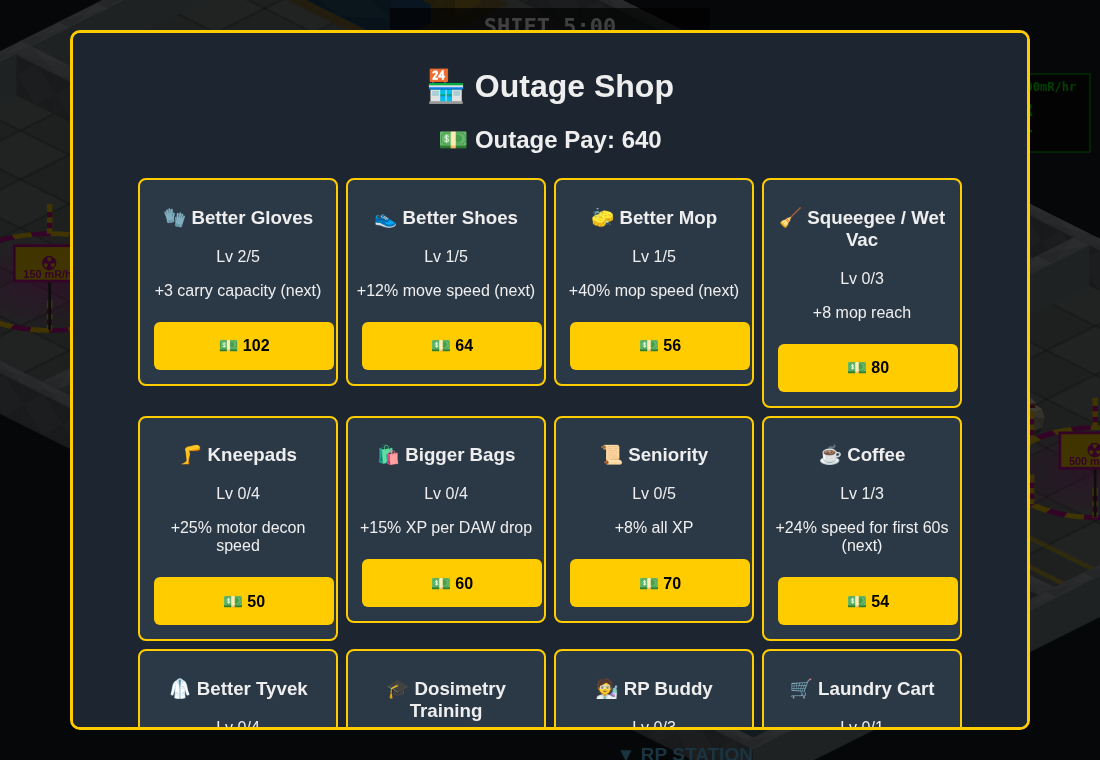
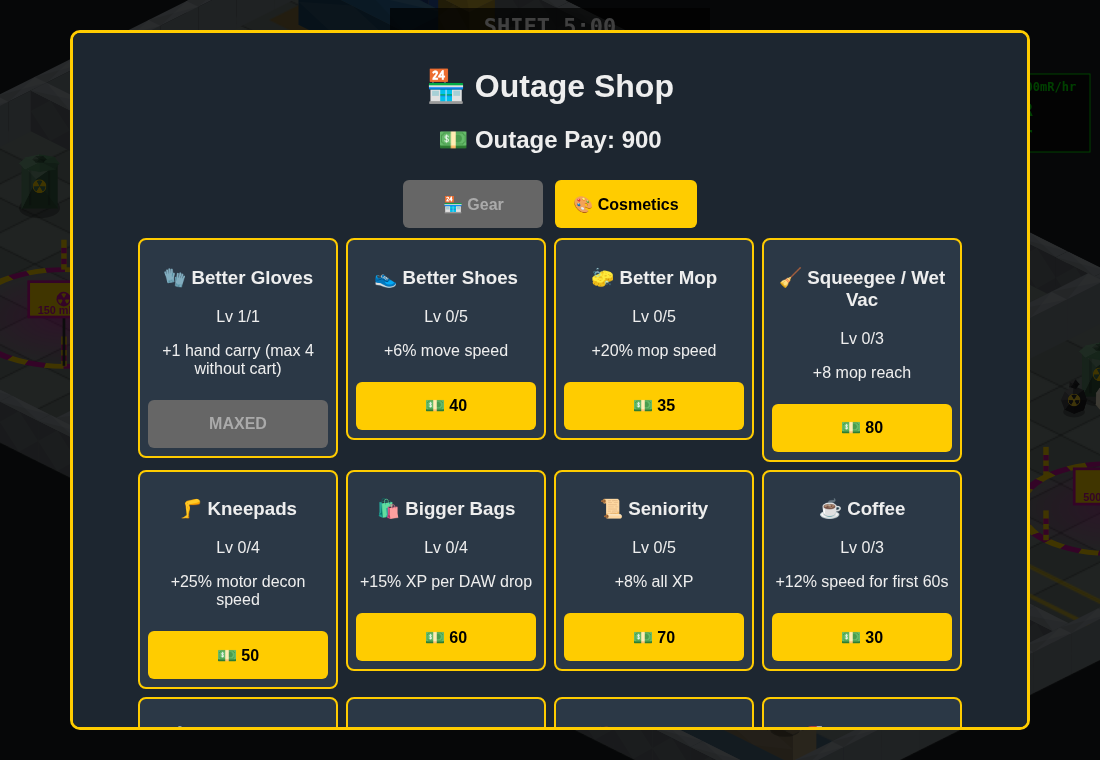
Shift modes, PCM frisk, hot particle, tent jobs + doffing, daily challenges, buddy, cosmetics, ranks

diff --git a/index.html b/index.html
@@ -20,18 +20,19 @@ const SHOP=[
 {id:'training',n:'🎓 Dosimetry Training',d:l=>'ED set points '+(10+l*5)+' mR / '+(100+l*50)+' mR/hr',max:3,c:120,g:1.8},
 {id:'rpbuddy',n:'🧑🔬 RP Buddy',d:l=>'-'+(l*25)+'% XP lost on ED reset',max:3,c:50,g:1.7},
 {id:'magnet',n:'🧲 XP Magnet',d:l=>'+'+(l*12)+' bubble pickup radius',max:4,c:45,g:1.6},
+{id:'buddy',n:'🧑🔧 Apprentice Buddy',d:l=>l>=2?'Collects bubbles AND hauls bags to DAW':'Follows you and collects XP bubbles'+(l?' (next: hauls bags)':''),max:2,c:300,g:2},
 {id:'cart',n:'🛒 Laundry Cart',d:l=>l?'Owned: press C / tap 🛒 to grab or park':'Start every shift with a cart (8+ bags)',max:1,c:750,g:1}];
 let META;try{META=JSON.parse(localStorage.getItem('deconMeta'))}catch(e){}META=META||{pay:0,lv:{},shifts:0};
 const saveMeta=()=>{try{localStorage.setItem('deconMeta',JSON.stringify(META))}catch(e){}};
 const ML=id=>META.lv[id]||0,cost=it=>Math.round(it.c*Math.pow(it.g,ML(it.id)));
 function applyMeta(){const u=S.up;u.cap=Math.min(4,u.cap+ML('gloves'));u.spd*=1+.06*ML('shoes');u.mop*=1+.2*ML('mop');u.decon*=1+.25*ML('kneepads');
-S.reach=4+8*ML('squeegee');S.doseMul=1-.12*ML('tyvek');S.sp1=10+5*ML('training');S.sp2=100+50*ML('training');S.xpMul=1+.08*ML('seniority');S.bagMul=1+.15*ML('bigbags');S.coffee=.12*ML('coffee');S.rpMul=1-.25*ML('rpbuddy');S.hasCart=ML('cart')>0;S.magnet+=12*ML('magnet')}
+S.reach=4+8*ML('squeegee');S.doseMul=1-.12*ML('tyvek');S.sp1=10+5*ML('training');S.sp2=100+50*ML('training');S.xpMul=1+.08*ML('seniority');S.bagMul=1+.15*ML('bigbags');S.coffee=.12*ML('coffee');S.rpMul=1-.25*ML('rpbuddy');S.hasCart=ML('cart')>0;S.buddy=ML('buddy')?{x:S.p.x-30,y:S.p.y-30,vx:0,vy:0,carry:null}:null;S.buddyCD=0;applyCos();S.magnet+=12*ML('magnet')}
 function toggleCart(){if(!S.hasCart||S.paused)return;const u=S.up;if(u.cart&&S.p.carry.length>u.cap){float(S.p.x,S.p.y-30,'Unload first!','#f88');return}u.cart=!u.cart;float(S.p.x,S.p.y-30,u.cart?'🛒 Cart!':'Cart parked',u.cart?'#fc0':'#ccc')}
 const capOf=()=>S.up.cart?S.up.cartCap:S.up.cap;
 addEventListener('keydown',e=>{if(e.key.toLowerCase()==='c')toggleCart()});
-function shop(from){S.paused=true;const it=SHOP.map(i=>{const l=ML(i.id),mx=l>=i.max,c=cost(i),ok=!mx&&META.pay>=c;
+function shop(from,tab){S.paused=true;if(tab==='cos'){OV.innerHTML=`<div class="box wide"><h1>🎨 Cosmetics</h1><h2>💵 Outage Pay: ${META.pay}</h2><button onclick="shop('${from}')">🏪 Gear</button><button disabled>🎨 Cosmetics</button><div>${cosHTML(from)}</div><button style="font-size:20px" onclick="${from==='end'?'shiftSelect()':'title()'}">${from==='end'?'▶ Next Shift':'◀ Back'}</button></div>`;OV.style.display='flex';return}const it=SHOP.map(i=>{const l=ML(i.id),mx=l>=i.max,c=cost(i),ok=!mx&&META.pay>=c;
 return`<div class="card shop"><h3>${i.n}</h3><div>Lv ${l}/${i.max}</div><p>${i.d(Math.max(l,mx?l:l+1))}${mx?'':l?' (next)':''}</p><button ${ok?'':'disabled'} onclick="buy('${i.id}','${from}')">${mx?'MAXED':'💵 '+c}</button></div>`}).join('');
-OV.innerHTML=`<div class="box wide"><h1>🏪 Outage Shop</h1><h2>💵 Outage Pay: ${META.pay}</h2><div>${it}</div><button style="font-size:20px" onclick="${from==='end'?'start()':'title()'}">${from==='end'?'▶ Next Shift':'◀ Back'}</button>
+OV.innerHTML=`<div class="box wide"><h1>🏪 Outage Shop</h1><h2>💵 Outage Pay: ${META.pay}</h2><button disabled>🏪 Gear</button><button onclick="shop('${from}','cos')">🎨 Cosmetics</button><div>${it}</div><button style="font-size:20px" onclick="${from==='end'?'shiftSelect()':'title()'}">${from==='end'?'▶ Next Shift':'◀ Back'}</button>
 <details style="margin-top:14px;opacity:.6"><summary>Settings</summary><button style="background:#a33;color:#fff" onclick="if(confirm('Reset ALL progress?')){META={pay:0,lv:{},shifts:0};saveMeta();shop('${from}')}">Reset progress</button></details></div>`;OV.style.display='flex'}
 function buy(id,from){const i=SHOP.find(s=>s.id===id),c=cost(i);if(META.pay<c||ML(id)>=i.max)return;META.pay-=c;META.lv[id]=ML(id)+1;saveMeta();shop(from)}
 const C=document.getElementById('c');let X=C.getContext('2d');const OV=document.getElementById('ov');
@@ -50,7 +51,7 @@ document.addEventListener('touchmove',e=>{if(!e.target.closest||!e.target.closes
 document.addEventListener('gesturestart',e=>e.preventDefault());
 onkeydown=e=>{keys[e.key.toLowerCase()]=1;if(e.key.startsWith('Arrow'))e.preventDefault()};onkeyup=e=>keys[e.key.toLowerCase()]=0;
 function reset(){S={t:0,p:{x:900,y:600,r:13,carry:[]},xp:0,lvl:1,next:5,items:[],spills:[],motor:null,workers:[],
-dose:0,rate:0,alarm:false,bub:[],combo:0,comboT:0,bestCombo:0,lean:0,flyOut:[],pend:0,pendT:0,magnet:34,knockCD:0,stats:{bags:0,spills:0,motors:0,alarms:0},cleans:0,cleanCD:0,banner:0,
+dose:0,rate:0,alarm:false,bub:[],combo:0,comboT:0,bestCombo:0,lean:0,flyOut:[],pend:0,pendT:0,magnet:34,knockCD:0,contam:0,tent:null,tentAt:45,hp:null,hpAt:70+Math.random()*60,tentsOk:0,banner2:0,pcmAlarm:false,stats:{bags:0,spills:0,motors:0,alarms:0},cleans:0,cleanCD:0,banner:0,
 up:{spd:1,cap:3,cartCap:8,carrySpd:0.7,mop:1,decon:1,push:0,cart:false},
 spawnT:0,spillT:3,motorT:40,paused:true,floats:[],over:false};
 for(let i=0;i<5;i++)S.workers.push({x:400+Math.random()*300,y:300+Math.random()*200,vx:0,vy:0,t:0});
@@ -58,7 +59,7 @@ for(let i=0;i<4;i++)spawnItem();applyMeta()}
 function solid(x,y,r){if(x<r||y<r||x>W-r||y>H-r)return true;for(const w of walls)if(x+r>w[0]&&x-r<w[0]+w[2]&&y+r>w[1]&&y-r<w[1]+w[3])return true;return false}
 const CANS=[{x:250,y:210,n:'Aux Bldg'},{x:95,y:440,n:'Pipe Chase'},{x:650,y:320,n:'Containment'},{x:830,y:90,n:'Turbine'},{x:810,y:470,n:'RCA Hall'}],CAN_CAP=8;
 function nearCan(x,y,d=55){return CANS.some(c=>Math.hypot(c.x-x,c.y-y)<d)}
-function freeSpot(r=14){let x,y;do{x=30+Math.random()*(W-60);y=30+Math.random()*(H-60)}while(solid(x,y,r)||inR({x,y},DAW,30)||inR({x,y},RP,30)||nearCan(x,y));return{x,y}}
+function freeSpot(r=14){let x,y;do{x=30+Math.random()*(W-60);y=30+Math.random()*(H-60)}while(solid(x,y,r)||inR({x,y},DAW,30)||inR({x,y},RP,30)||inR({x,y},TENT,20)||nearCan(x,y));return{x,y}}
 function inR(p,a,m=0){return p.x>a.x-m&&p.x<a.x+a.w+m&&p.y>a.y-m&&p.y<a.y+a.h+m}
 function spawnItem(){const open=CANS.filter(c=>S.items.filter(i=>i.can===c).length<CAN_CAP);if(!open.length)return;const c=open[Math.random()*open.length|0];
 const used=new Set(S.items.filter(i=>i.can===c).map(i=>i.slot));let k=0;while(used.has(k))k++;const a=(k%6)/6*6.283+.4,r=k<6?30:24,j=()=>(Math.random()-.5)*4;
@@ -66,6 +67,62 @@ S.nSp=(S.nSp||0)+1;S.dirty=true;S.items.push({x:c.x+Math.cos(a)*r+j(),y:c.y+Math
 function spawnSpill(){S.dirty=true;S.nSl=(S.nSl||0)+1;const s=freeSpot();S.spills.push({...s,r:16+Math.random()*10,prog:0,age:0})}
 function float(x,y,txt,col='#fc0'){S.floats.push({x,y,txt,col,t:1.2})}
 // ---- XP bubbles, combo, stack ----
+// ---- cosmetics, ranks, buddy ----
+const COS={hood:[['#f6cf26','Classic Yellow',0],['#ff8a1c','Safety Orange',80],['#ff6fb5','Bubblegum',80],['#38d6e8','Coolant Cyan',80],['#9b59ff','Purple Haze',120],['#2b2b33','Stealth Black',150]],
+hat:[['none','No hat',0],['prop','Propeller beanie',100],['cowboy','Cowboy hard hat',120],['party','Party hat',90],['crown','Golden crown',300]],
+mop:[['classic','Classic mop',0],['gold','Golden mop',150],['rainbow','Rainbow mop',200],['hockey','Hockey stick',120]]};
+function cosOwned(k,i){return i===0||(META.cos&&META.cos.own&&META.cos.own[k+i])}
+function cosSel(k){return (META.cos&&META.cos.sel&&META.cos.sel[k])||0}
+function applyCos(){const h=COS.hood[cosSel('hood')][0];if(STY.player.hood!==h){STY.player.hood=h;STY.player.cuff=h;STY.player.boot=h;for(const k in sprCache)if(k.startsWith('player'))delete sprCache[k]}}
+function cosBuy(k,i,from){META.cos=META.cos||{own:{},sel:{}};const c=COS[k][i][2];if(!cosOwned(k,i)){if(META.pay<c)return;META.pay-=c;META.cos.own[k+i]=1}META.cos.sel[k]=i;saveMeta();applyCos();shop(from,'cos')}
+function cosHTML(from){return Object.entries({hood:'🧥 Hood colour',hat:'🎩 Funny hats',mop:'🧹 Mop skins'}).map(([k,n])=>`<h3>${n}</h3>`+COS[k].map((c,i)=>{const own=cosOwned(k,i),sel=cosSel(k)===i;return`<div class="card shop"><h3>${k==='hood'?`<span style="display:inline-block;width:18px;height:18px;border-radius:50%;background:${c[0]};vertical-align:middle"></span> `:''}${c[1]}</h3><button ${!own&&META.pay<c[2]?'disabled':''} onclick="cosBuy('${k}',${i},'${from}')">${sel?'✔ Equipped':own?'Equip':'💵 '+c[2]}</button></div>`}).join('')).join('')}
+function drawHat(p,q,bob,dir,face){const k=COS.hat[cosSel('hat')][0];if(k==='none')return;const y=q-(52+bob)*1.35-10,x=p+(dir==='s'?face*-2:0);X.save();X.translate(x,y);
+if(k==='prop'){X.fillStyle='#e33';X.beginPath();X.arc(0,6,11,Math.PI,0);X.fill();X.fillStyle='#36f';X.fillRect(-11,4,22,3);X.fillStyle='#ffd400';X.fillRect(-1,-6,2,8);const a=S.t*20;X.fillStyle='#3c3';X.save();X.translate(0,-6);X.scale(1,.3);X.rotate(a);X.fillRect(-13,-2,26,4);X.restore()}
+else if(k==='cowboy'){X.fillStyle='#b87b3a';X.beginPath();X.ellipse(0,6,22,6,0,0,7);X.fill();X.fillStyle='#9a6228';X.beginPath();X.ellipse(0,0,11,9,0,Math.PI,0);X.fill();X.fillRect(-11,0,22,5)}
+else if(k==='party'){X.fillStyle='#f3c';X.beginPath();X.moveTo(-9,8);X.lineTo(9,8);X.lineTo(0,-16);X.closePath();X.fill();X.fillStyle='#ff0';X.beginPath();X.arc(0,-16,3.5,0,7);X.fill();X.fillStyle='#3cf';X.fillRect(-5,0,10,3)}
+else if(k==='crown'){X.fillStyle='#ffcc00';X.beginPath();X.moveTo(-12,8);X.lineTo(-12,-4);X.lineTo(-6,2);X.lineTo(0,-8);X.lineTo(6,2);X.lineTo(12,-4);X.lineTo(12,8);X.closePath();X.fill();X.fillStyle='#e22';X.beginPath();X.arc(0,3,2.5,0,7);X.fill()}
+X.restore()}
+function drawMop(p,q,t){const k=COS.mop[cosSel('mop')][0],sw=Math.sin(t*14)*10;X.save();X.translate(p+18,q-4);X.rotate(sw*.04-.35);X.fillStyle=k==='gold'?'#e0b000':k==='hockey'?'#222':'#8b5a2b';X.fillRect(-1.5,-50,3,50);
+if(k==='hockey'){X.fillStyle='#222';X.fillRect(-2,-2,16,5)}else{const cols=k==='rainbow'?['#f33','#f93','#ff3','#3c3','#39f','#93f']:k==='gold'?['#ffe066','#ffd000']:['#eee','#ccc'];for(let i=0;i<8;i++){X.fillStyle=cols[i%cols.length];X.fillRect(-8+i*2,-2,2,9+(i%3))}}X.restore()}
+const RANKS=[[0,'🔰 Rookie'],[150,'🧽 Decon Tech'],[600,'⭐ Lead Tech'],[1500,'☢ RP Trainee']];
+function rankInfo(){const L=META.life||{bags:0,spills:0,motors:0,cleans:0,shifts:0};const sc=L.bags+L.spills*2+L.motors*5+L.cleans*10+L.shifts*5;let i=0;while(i+1<RANKS.length&&sc>=RANKS[i+1][0])i++;const nx=RANKS[i+1];return{sc,name:RANKS[i][1],next:nx?nx[1]:null,need:nx?nx[0]-sc:0,pct:nx?(sc-RANKS[i][0])/(nx[0]-RANKS[i][0]):1}}
+function updBuddy(dt){const B=S.buddy;if(!B)return;const p=S.p;let tx=p.x-30,ty=p.y-30,sp=150;
+if(B.carry){tx=DAW.x+75;ty=DAW.y+55;if(inR(B,DAW)){S.flyOut.push({type:B.carry,sx:iso(B.x,B.y)[0],sy:iso(B.x,B.y)[1]-50,t:0,val:Math.round((B.carry==='laundry'?2:1)*S.bagMul)});B.carry=null;float(B.x,B.y-40,'Got it boss!','#9f9')}}
+else{let best=null,bd=220;for(const b of S.bub){const d=Math.hypot(b.x-B.x,b.y-B.y);if(d<bd&&b.t<19.5){bd=d;best=b}}
+ if(!best&&ML('buddy')>=2){bd=260;for(const it of S.items){const d=Math.hypot(it.x-B.x,it.y-B.y);if(d<bd&&!it.can){bd=d;best=it}}if(!best)for(const it of S.items){const d=Math.hypot(it.x-B.x,it.y-B.y);if(d<bd){bd=d;best=it}}}
+ if(best){tx=best.x;ty=best.y}
+ for(const b of S.bub)if(Math.hypot(b.x-B.x,b.y-B.y)<16&&b.t<19.5){b.t=-1;S.pend+=b.v;S.pendT=.35;gainXP(b.v,0,0,true)}
+ if(ML('buddy')>=2&&S.buddyCD<=0)for(let i=S.items.length-1;i>=0;i--){const it=S.items[i];if(Math.hypot(it.x-B.x,it.y-B.y)<16){B.carry=it.type;S.items.splice(i,1);break}}}
+if(S.buddyCD>0)S.buddyCD-=dt;
+const dx=tx-B.x,dy=ty-B.y,d=Math.hypot(dx,dy);if(d>6){const v=Math.min(sp,d*4);B.vx=dx/d*v;B.vy=dy/d*v}else{B.vx=B.vy=0}const nx=B.x+B.vx*dt,ny=B.y+B.vy*dt;if(!solid(nx,B.y,10))B.x=nx;if(!solid(B.x,ny,10))B.y=ny}
+// ---- shift modes, daily challenges, PCM, hot particle, tent ----
+const MODES={day:{n:'☀ Day Shift',d:'Normal pace. Normal pay.',spawn:1,pay:1,workers:1,dark:0},night:{n:'🌙 Night Shift',d:'Dark plant, flashlight only. Fewer workers. +20% pay.',spawn:1,pay:1.2,workers:.5,dark:1},peak:{n:'🔥 Outage Peak',d:'Double spawns, crowded. +75% pay.',spawn:2,pay:1.75,workers:1.4,dark:0}};
+let MODE='day';
+const todayKey=()=>{const d=new Date();return d.getFullYear()*10000+(d.getMonth()+1)*100+d.getDate()};
+const CH_POOL=[{id:'dose2',n:'Finish under 2 mR',ok:s=>s.dose<2},{id:'bags40',n:'Haul 40 bags',ok:s=>s.stats.bags>=40},{id:'noalarm',n:'No ED alarms',ok:s=>s.stats.alarms===0},{id:'spills15',n:'Mop 15 spills',ok:s=>s.stats.spills>=15},{id:'clean2',n:'Clear the plant twice',ok:s=>s.cleans>=2},{id:'combo8',n:'Reach an 8x job combo',ok:s=>s.bestCombo>=8},{id:'motor3',n:"Decon 3 motors",ok:s=>s.stats.motors>=3},{id:'pcm',n:'Clean PCM frisk',ok:s=>!s.pcmAlarm},{id:'tent2',n:'2 tent jobs, perfect doffing',ok:s=>s.tentsOk>=2}];
+function dailies(){let x=todayKey();const r=()=>(x=(x*1103515245+12345)%2147483648)/2147483648;const p=[...CH_POOL];const out=[];for(let i=0;i<3;i++)out.push(p.splice(r()*p.length|0,1)[0]);return out}
+const CH_PAY=60;
+function chList(){const k=todayKey(),done=(META.daily||{})[k]||{};return dailies().map(c=>`<div>${done[c.id]?'✅':'⬜'} ${c.n} <small>(+${CH_PAY} 💵)</small></div>`).join('')}
+function shiftSelect(){reset();S.paused=true;OV.innerHTML=`<div class="box wide"><h1>Choose your shift</h1>${Object.entries(MODES).map(([k,m])=>`<div class="card shop" onclick="MODE='${k}';start()"><h3>${m.n}</h3><p>${m.d}</p><button>Clock in</button></div>`).join('')}<h3>📅 Today's challenges</h3><div style="text-align:left;display:inline-block">${chList()}</div><br><button onclick="title()">◀ Back</button></div>`;OV.style.display='flex'}
+const TENT={x:900,y:440,w:110,h:80};
+function inTent(p){return inR(p,TENT)}
+const DOFF=['🧤 Outer gloves','🥼 Anti-C suit','🧤 Inner gloves'];
+function doffPrompt(){S.paused=true;let step=0,bad=false;const order=[0,1,2].sort(()=>Math.random()-.5);
+OV.innerHTML=`<div class="box"><h2>⛺ Exit the tent: DOFF in order!</h2><p>Tap in the correct order (outer layers first).</p><div id="dseq" style="min-height:28px"></div>${order.map(i=>`<button id="d${i}" style="display:block;width:100%;font-size:20px;margin:8px 0">${DOFF[i]}</button>`).join('')}</div>`;OV.style.display='flex';
+order.forEach(i=>document.getElementById('d'+i).onclick=()=>{const b=document.getElementById('d'+i);if(b.disabled)return;b.disabled=true;if(i!==step)bad=true;step++;document.getElementById('dseq').textContent+=DOFF[i]+' → ';if(step===3){const T=TENT;OV.style.display='none';S.paused=false;last=performance.now();
+if(bad){S.contam+=4;S.t+=10;float(S.p.x,S.p.y-50,'Bad doff! +contam, -10s','#f66')}else{S.tentsOk++;job();dropXP(25,T.x+T.w/2,T.y+T.h/2,150);float(S.p.x,S.p.y-50,'Perfect doff! ✔','#7f7')}}})}
+function updEvents(dt){const p=S.p;
+// tent job
+if(!S.tent&&S.t>S.tentAt){S.tent={prog:0,need:4};float(TENT.x,TENT.y,'⛺ Tent job posted!','#fc0');S.dirty=true}
+if(S.tent){if(inTent(p)&&!p.carry.length){S.tent.prog+=dt*(1+.25*ML('kneepads'));if(Math.random()<dt*8)spark(TENT.x+TENT.w/2,TENT.y+TENT.h/2,'#ff7',2);S.inTentDone=S.tent.prog>=S.tent.need}
+ if(S.inTentDone&&!inTent(p)){S.tent=null;S.inTentDone=false;S.tentAt=S.t+55+Math.random()*30;doffPrompt()}}
+// hot particle
+if(!S.hp&&S.t>S.hpAt){const s=freeSpot();S.hp={...s,t:0,spread:10};S.banner2=3;S.dirty=true}
+if(S.hp){const h=S.hp;h.t+=dt;h.spread-=dt;if(h.spread<=0){h.spread=10;if(S.spills.length<14){const a=Math.random()*6.283;S.spills.push({x:h.x+Math.cos(a)*40,y:h.y+Math.sin(a)*40,r:12,prog:0,age:0});S.dirty=true}}
+ if(Math.hypot(h.x-p.x,h.y-p.y)<22){S.hp=null;S.hpAt=S.t+80+Math.random()*60;job();dropXP(12,h.x,h.y,120);float(p.x,p.y-50,'Hot particle bagged! ✔','#f6f')}}
+// PCM contamination from walking through spills
+const sp=Math.hypot(p.vx||0,p.vy||0);if(sp>40)for(const s of S.spills)if(Math.hypot(s.x-p.x,s.y-p.y)<s.r){S.contam+=dt*1.2;break}}
+function pcmRisk(){return Math.min(.9,S.contam*.08)}
 function comboMul(){return 1+.1*Math.min(S.combo,10)}
 function job(){S.combo++;S.comboT=6;if(S.combo>=3&&S.combo%3===0)float(S.p.x,S.p.y-60,'COMBO x'+comboMul().toFixed(1)+'!','#ff7');S.bestCombo=Math.max(S.bestCombo,S.combo)}
 function dropXP(n,x,y,spd=90){n=Math.round(n*comboMul());for(let i=0;i<n;i++){if(S.bub.length>260){S.bub[i%S.bub.length].v++;continue}const a=Math.random()*6.283,v=spd*(.4+Math.random()*.8);S.bub.push({x,y,z:10,vx:Math.cos(a)*v,vy:Math.sin(a)*v,vz:80+Math.random()*80,t:20,v:1})}}
@@ -100,10 +157,10 @@ OV.innerHTML=`<div class="box"><h2>⬆ LEVEL ${S.lvl}!</h2><p>Pick an upgrade:</
 pool.forEach((u,i)=>document.getElementById('u'+i).onclick=()=>{u.f();OV.style.display='none';S.paused=false;last=performance.now()})}
 function update(dt){const p=S.p,u=S.up;S.t+=dt;if(S.t>=SHIFT)return endShift();
 const ramp=1+S.t/200;if(S.cleanCD>0)S.cleanCD-=dt;const hold=S.cleanCD>0;
-if(!hold){S.spawnT-=dt;if(S.spawnT<=0){S.spawnT=Math.max(4.5,9/ramp);spawnItem()}
-S.spillT-=dt;if(S.spillT<=0){S.spillT=Math.max(11,20/ramp);if(S.spills.length<12)spawnSpill()}
+if(!hold){S.spawnT-=dt;if(S.spawnT<=0){S.spawnT=Math.max(4.5,9/ramp)/MODES[MODE].spawn;spawnItem()}
+S.spillT-=dt;if(S.spillT<=0){S.spillT=Math.max(11,20/ramp)/MODES[MODE].spawn;if(S.spills.length<12)spawnSpill()}
 S.motorT-=dt;if(S.motorT<=0&&!S.motor){const s=freeSpot(24);S.motor={...s,prog:0,need:8};S.motorT=60}}
-if(!hold&&S.dirty&&!S.items.length&&!S.spills.length&&!S.motor){S.cleans++;S.cleanCD=8;S.dirty=false;S.spawnT=0;S.banner=3;gainXP(15+S.cleans*5,S.p.x,S.p.y-40);spark(S.p.x,S.p.y,'#7f7',30);spark(S.p.x,S.p.y,'#ffd400',30)}if(S.banner>0)S.banner-=dt;
+if(!hold&&S.dirty&&!S.items.length&&!S.spills.length&&!S.motor&&!S.hp&&!S.tent){S.cleans++;S.cleanCD=8;S.dirty=false;S.spawnT=0;S.banner=3;gainXP(15+S.cleans*5,S.p.x,S.p.y-40);spark(S.p.x,S.p.y,'#7f7',30);spark(S.p.x,S.p.y,'#ffd400',30)}if(S.banner>0)S.banner-=dt;
 // movement
 let dx=(keys.d||keys.arrowright?1:0)-(keys.a||keys.arrowleft?1:0),dy=(keys.s||keys.arrowdown?1:0)-(keys.w||keys.arrowup?1:0);
 if(joy){const jx=joy.x-joy.ox,jy=joy.y-joy.oy,jl=Math.hypot(jx,jy);if(jl>8){const m=Math.min(1,jl/60);dx=jx/jl*m;dy=jy/jl*m}}
@@ -119,29 +176,33 @@ const ddx=p.x-w.x,ddy=p.y-w.y,d=Math.hypot(ddx,ddy),md=pr+12;
 if(d<md&&d>0){const nx=ddx/d,ny=ddy/d,o=md-d;if(!u.cart&&p.carry.length>=2&&S.knockCD<=0&&Math.hypot(p.vx||0,p.vy||0)>110){S.knockCD=1.2;const c=p.carry.pop();const a=Math.random()*6.283;S.items.push({x:p.x+Math.cos(a)*40,y:p.y+Math.sin(a)*40,type:c.type,can:null});S.dirty=true;float(p.x,p.y-60,'Whoops! Bag fell','#fa0')}
 if(u.push){const k=u.push*.35;const wx=w.x-nx*o*(1+k),wy=w.y-ny*o*(1+k);if(!solid(wx,wy,12)){w.x=wx;w.y=wy;if(Math.random()<.02)float(w.x,w.y-20,'Hey!','#aaf')}else{p.x+=nx*o;p.y+=ny*o}}
 else{p.x+=nx*o;p.y+=ny*o;p.vx*=u.cart?.2:.5;p.vy*=u.cart?.2:.5}}}
-if(S.workers.length<5+S.t/50)S.workers.push({...freeSpot(),vx:0,vy:0,t:0});
+if(S.workers.length<(5+S.t/50)*MODES[MODE].workers)S.workers.push({...freeSpot(),vx:0,vy:0,t:0});
 // pickup
 for(let i=S.items.length-1;i>=0;i--){const it=S.items[i];if(Math.hypot(it.x-p.x,it.y-p.y)<pr+12&&p.carry.length<capOf()){p.carry.push({type:it.type,a:0,fx:it.x,fy:it.y});S.items.splice(i,1)}}
 if(inR(p,DAW)&&p.carry.length&&p.carry.every(c=>c.a>=1)){const n=p.carry.length,bonus=n>=4?Math.floor(n/2):0;const[px0,py0]=iso(p.x,p.y);for(let i=n-1,k=0;i>=0;i--,k++){const c=p.carry[i];const[x,y]=stackPos(i,px0,py0,0,1,'d',S.t);S.flyOut.push({type:c.type,sx:x,sy:y,t:-k*.13,val:Math.round(((c.type==='laundry'?2:1)+(k===n-1?bonus:0))*S.bagMul)})}p.carry=[];job()}
 // spills: mop
 for(let i=S.spills.length-1;i>=0;i--){const s=S.spills[i];s.age+=dt;if(s.age>60&&s.r<36){s.r+=dt*0.3}
-if(Math.hypot(s.x-p.x,s.y-p.y)<s.r+S.reach&&!u.cart&&(S.harness||!p.carry.length)){if(Math.random()<dt*12)spark(s.x,s.y,'#bfe8ff',3);s.prog+=dt*u.mop*(30/s.r)*0.8;if(s.prog>=1){S.spills.splice(i,1);S.stats.spills++;job();let hz=0;for(const h of hot)if(Math.hypot(h.x-s.x,h.y-s.y)<h.r)hz=1;dropXP(3+hz*4,s.x,s.y);if(hz)float(s.x,s.y-30,'☢ Hot spill +4','#f6f')}}}
+if(Math.hypot(s.x-p.x,s.y-p.y)<s.r+S.reach&&!u.cart&&(S.harness||!p.carry.length)){S.mopping=.15;if(Math.random()<dt*12)spark(s.x,s.y,'#bfe8ff',3);s.prog+=dt*u.mop*(30/s.r)*0.8;if(s.prog>=1){S.spills.splice(i,1);S.stats.spills++;job();let hz=0;for(const h of hot)if(Math.hypot(h.x-s.x,h.y-s.y)<h.r)hz=1;dropXP(3+hz*4,s.x,s.y);if(hz)float(s.x,s.y-30,'☢ Hot spill +4','#f6f')}}}
 if(S.motor){const m=S.motor;if(Math.hypot(m.x-p.x,m.y-p.y)<pr+28&&(S.harness||!p.carry.length)){m.prog+=dt*u.decon;if(m.prog>=m.need){S.motor=null;S.stats.motors++;job();dropXP(15,m.x,m.y,140);spark(m.x,m.y,'#f80',20)}}}
 // dose
 let rate=0.5;for(const h of hot){const d=Math.hypot(h.x-p.x,h.y-p.y);if(d<h.r)rate+=h.rate*(1-d/h.r*.6);else if(d<h.r*1.6)rate+=h.rate*.08}
 S.rate=rate;S.dose+=rate*S.doseMul*dt/3600*12; // 12x time compression
 if(!S.alarm&&(S.dose-(S.doseBase||0)>=S.sp1||rate>=S.sp2)){S.alarm=true;S.stats.alarms++;if(S.combo>=3)float(p.x,p.y-50,'Combo lost!','#f88');S.combo=0;float(p.x,p.y-30,'ED ALARM! 🚨 Go see RP','#f44');S.alarmDoseBase=S.dose}
 if(S.alarm&&inR(p,RP)){S.alarm=false;if(S.dose-(S.doseBase||0)>=S.sp1)S.doseBase=S.dose;const lost=Math.min(S.xp,Math.ceil(S.next*.4*S.rpMul));S.xp-=lost;float(p.x,p.y-30,'ED reset. -'+lost+' XP. Stay ALARA!','#f88');if(S.dose>=S.sp1)S.dose10=(S.dose10||0)+1}
-updBubbles(dt);updStack(dt);if(S.comboT>0){S.comboT-=dt;if(S.comboT<=0)S.combo=0}if(S.knockCD>0)S.knockCD-=dt;for(const f of S.floats){f.t-=dt;f.y-=30*dt}S.floats=S.floats.filter(f=>f.t>0)}
-function endShift(){S.paused=true;S.over=true;const dose=S.dose,alara=dose<3?500:dose<6?250:dose<10?100:0;
-const pay=Math.round(S.cleans*40+S.stats.bags*2+S.stats.spills*4+S.stats.motors*15+alara/25+S.lvl*2);META.pay+=pay;META.shifts++;saveMeta();
-const score=S.stats.bags*10+S.stats.spills*25+S.stats.motors*100+S.lvl*50+alara-S.stats.alarms*100;
-OV.innerHTML=`<div class="box"><h1>🔔 END OF SHIFT</h1><table style="margin:auto;font-size:18px;text-align:left">
+updBubbles(dt);updStack(dt);updEvents(dt);updBuddy(dt);if(S.mopping>0)S.mopping-=dt;if(S.banner2>0)S.banner2-=dt;if(S.comboT>0){S.comboT-=dt;if(S.comboT<=0)S.combo=0}if(S.knockCD>0)S.knockCD-=dt;for(const f of S.floats){f.t-=dt;f.y-=30*dt}S.floats=S.floats.filter(f=>f.t>0)}
+function endShift(){S.paused=true;S.over=true;const dose=S.dose,alara=dose<3?500:dose<6?250:dose<10?100:0,M=MODES[MODE];
+S.pcmAlarm=Math.random()<pcmRisk();
+let base=S.cleans*40+S.stats.bags*2+S.stats.spills*4+S.stats.motors*15+S.tentsOk*20+alara/25+S.lvl*2;let pay=Math.round(base*M.pay*(S.pcmAlarm?.85:1));
+const k=todayKey();META.daily=META.daily||{};const dd=META.daily[k]=META.daily[k]||{};let chPay=0,chTxt='';for(const c of dailies()){if(!dd[c.id]&&c.ok(S)){dd[c.id]=1;chPay+=CH_PAY;chTxt+=`<div>✅ ${c.n} +${CH_PAY} 💵</div>`}}
+for(const kk of Object.keys(META.daily))if(+kk<k-7)delete META.daily[kk];
+pay+=chPay;META.pay+=pay;META.shifts++;const L=META.life=META.life||{bags:0,spills:0,motors:0,cleans:0,shifts:0,alara:0};L.bags+=S.stats.bags;L.spills+=S.stats.spills;L.motors+=S.stats.motors;L.cleans+=S.cleans;L.shifts++;if(alara>=250)L.alara++;saveMeta();
+const score=S.stats.bags*10+S.stats.spills*25+S.stats.motors*100+S.lvl*50+alara-S.stats.alarms*100+S.cleans*300;
+OV.innerHTML=`<div class="box"><h1>🔔 END OF SHIFT</h1><div>${M.n}</div><div style="margin:8px;padding:8px;border-radius:8px;background:${S.pcmAlarm?'#622':'#163'}">🚪 PCM frisk: ${S.pcmAlarm?'ALARM! 15 min self-decon in the shower (−15% pay)':'CLEAN ✔ (risk was '+Math.round(pcmRisk()*100)+'%)'}</div><table style="margin:auto;font-size:17px;text-align:left">
 <tr><td>🗑 Bags hauled to DAW</td><td>${S.stats.bags}</td></tr><tr><td>🧽 Spills mopped</td><td>${S.stats.spills}</td></tr>
-<tr><td>⚙ Motors decon'd</td><td>${S.stats.motors}</td></tr><tr><td>⭐ Level reached</td><td>${S.lvl}</td></tr>
+<tr><td>⚙ Motors decon'd</td><td>${S.stats.motors}</td></tr><tr><td>⛺ Tent jobs (clean doff)</td><td>${S.tentsOk}</td></tr><tr><td>⭐ Level reached</td><td>${S.lvl}</td></tr><tr><td>🔗 Best combo</td><td>${S.bestCombo}</td></tr>
 <tr><td>☢ Total dose</td><td>${dose.toFixed(2)} mR</td></tr><tr><td>🚨 ED alarms</td><td>${S.stats.alarms}</td></tr><tr><td>✨ Plant cleared</td><td>${S.cleans}× (+${S.cleans*40} 💵)</td></tr>
-<tr><td>🏅 ALARA bonus</td><td>${alara}</td></tr><tr><td><b>SCORE</b></td><td><b>${score}</b></td></tr></table>
-<p>${alara>=500?'RP is proud of you. Textbook ALARA.':alara?'Decent dose management.':'RP wants a word with you...'}</p><h2>💵 Outage Pay earned: +${pay} (bank: ${META.pay})</h2><button onclick="shop('end')" style="font-size:20px">🏪 Shop</button><button onclick="start()">Work another shift</button></div>`;OV.style.display='flex'}
+<tr><td>🏅 ALARA bonus</td><td>${alara}</td></tr><tr><td><b>SCORE</b></td><td><b>${score}</b></td></tr></table>${chTxt?'<h3>📅 Challenges complete!</h3>'+chTxt:''}
+<p>${alara>=500?'RP is proud of you. Textbook ALARA.':alara?'Decent dose management.':'RP wants a word with you...'}</p><h2>💵 Outage Pay earned: +${pay} (bank: ${META.pay})</h2>${M.pay!==1?'<small>includes '+M.n+' pay x'+M.pay+'</small><br>':''}<button onclick="shop('end')" style="font-size:20px">🏪 Shop</button><button onclick="shiftSelect()">Work another shift</button></div>`;OV.style.display='flex'}
 const IX=0.72,IY=0.36,WH=30;let DPR=1,VW=0,VH=0,ZM=1,camX=0,camY=0,floorC=null;
 function iso(x,y,z=0){return[(x-y)*IX,(x+y)*IY-z]}
 function poly(pts,fill,stroke){X.beginPath();X.moveTo(pts[0][0],pts[0][1]);for(let i=1;i<pts.length;i++)X.lineTo(pts[i][0],pts[i][1]);X.closePath();X.fillStyle=fill;X.fill();if(stroke){X.strokeStyle=stroke;X.stroke()}}
@@ -168,7 +229,7 @@ const c=[cx+cent[0]*rx*.4,cy+cent[1]*ry*.4];for(let i=0;i<n;i++){const p=pts[i],
 g.beginPath();g.moveTo(c[0],c[1]);g.lineTo(p[0],p[1]);g.lineTo(q[0],q[1]);g.closePath();g.fillStyle=shade(col,l*.35+((i%2)?.05:-.03));g.fill();g.strokeStyle=g.fillStyle;g.lineWidth=.6;g.stroke()}}
 function fbox(g,x,y,w,h,col){const t=[[x,y],[x+w,y],[x+w,y+h],[x,y+h]],c=[x+w*.4,y+h*.35];[[0,1,.25],[1,2,-.2],[2,3,-.3],[3,0,.1]].forEach(([a,b,f])=>{g.beginPath();g.moveTo(c[0],c[1]);g.lineTo(...t[a]);g.lineTo(...t[b]);g.closePath();g.fillStyle=shade(col,f);g.fill();g.strokeStyle=g.fillStyle;g.lineWidth=.6;g.stroke()})}
 const SPS=3,SPW=44,SPH=72,sprCache={};
-const STY={player:{suit:'#f2f2ef',hood:'#f6cf26',cuff:'#f6cf26',boot:'#f6cf26',glove:'#f4f4f2'},rp:{suit:'#3a7bd5',hat:'#ffffff',cuff:'#2a5aa5',boot:'#333333',glove:'#eeeeee'}};
+const STY={player:{suit:'#f2f2ef',hood:'#f6cf26',cuff:'#f6cf26',boot:'#f6cf26',glove:'#f4f4f2'},buddy:{suit:'#f2f2ef',hat:'#5fd35f',cuff:'#5fd35f',boot:'#5fd35f',glove:'#f4f4f2'},rp:{suit:'#3a7bd5',hat:'#ffffff',cuff:'#2a5aa5',boot:'#333333',glove:'#eeeeee'}};
 const WCOL=[['#e67e22','#f5d000'],['#27ae60','#ffffff'],['#8e44ad','#f5d000'],['#2980b9','#e74c3c'],['#c0392b','#ffffff'],['#16a085','#f39c12']];
 WCOL.forEach((c,i)=>STY['w'+i]={suit:c[0],hat:c[1],cuff:shade(c[0],-.3).replace(/rgb\((\d+),(\d+),(\d+)\)/,(m,r,g,b)=>'#'+[r,g,b].map(v=>(+v).toString(16).padStart(2,'0')).join('')),boot:'#5a3a20',glove:'#dddddd'});
 function drawChibi(g,s,fr,dir){const mv=fr>=0,sw=mv?Math.sin(fr/8*6.283):0,L=sw*3.2,side=dir==='s',up=dir==='u';
@@ -208,7 +269,7 @@ let dir='d',face=1;if(ent){const vx=ent.vx||0,vy=ent.vy||0,sx=(vx-vy)*IX,sy=(vx+
 const fr=moving?((t*14)|0)%8:-1,ph=t*14/8*6.283,bob=moving?Math.abs(Math.sin(ph))*2.5:Math.sin(t*3)*.6,sq=moving?1+Math.cos(ph*2)*.04:1+Math.sin(t*3)*.015;
 const im=sprite(key,fr,dir);
 const drawBags=()=>{if(carry&&key==='player'&&!S.up.cart)drawStack(p,q,bob,face,dir,t)};
-if(dir!=='u')drawBags();X.save();X.translate(p,q);X.scale(1.35*face/sq,1.35*sq);X.drawImage(im,-SPW/2,-SPH+3-bob,SPW,SPH);X.restore();if(dir==='u')drawBags()}
+if(dir!=='u')drawBags();X.save();X.translate(p,q);X.scale(1.35*face/sq,1.35*sq);X.drawImage(im,-SPW/2,-SPH+3-bob,SPW,SPH);X.restore();if(key==='player'){drawHat(p,q,bob,dir,face);if(S.mopping)drawMop(p,q,t)}if(dir==='u')drawBags()}
 let parts=[];function spark(x,y,c,n=6){for(let i=0;i<n;i++)parts.push({x,y,z:4,vx:(Math.random()-.5)*80,vy:(Math.random()-.5)*80,vz:60+Math.random()*60,c,t:.6})}
 function draw(){{const cb=document.getElementById('cartBtn'),v=S.hasCart&&!S.paused?'block':'none';if(cb.style.display!==v)cb.style.display=v}const t=S.t||performance.now()/1000;X.setTransform(1,0,0,1,0,0);X.fillStyle='#1a1e22';X.fillRect(0,0,C.width,C.height);if(!floorC)buildFloor();
 const dt=1/60;for(const q of parts){q.x+=q.vx*dt;q.y+=q.vy*dt;q.vz-=300*dt;q.z=Math.max(0,q.z+q.vz*dt);q.t-=dt}parts=parts.filter(q=>q.t>0);
@@ -225,6 +286,9 @@ for(let i=0;i<3;i++){const x=DAW.x+20+i*42,y=DAW.y+15;L.push({d:x+y+30,f:()=>{bo
 {const x=RP.x+30,y=RP.y+20;L.push({d:x+y+30,f:()=>{box(x,y,80,24,22,'#c9b48a','#7a6a4c','#998563');person(x+40,y-8,'rp',t,false,0);const[a,b]=iso(x+20,y+12,23);X.fillStyle='#0f0';X.fillRect(a-6,b-8,12,8);}});}
 if(S.motor){const m=S.motor;L.push({d:m.x+m.y+20,f:()=>{shadow(m.x,m.y,26);box(m.x-20,m.y-14,40,28,22,'#5d7a8c');box(m.x-14,m.y-10,28,20,30,'#6f8fa3');box(m.x+20,m.y-4,8,8,26,'#b0b8c0');const[a,b]=iso(m.x,m.y,26);X.fillStyle='#889';X.beginPath();X.ellipse(a,b,10,5,0,0,7);X.fill();X.fillStyle='#f80';X.font='bold 11px sans-serif';X.fillText('⚙ DECON MOTOR',a,b-22);bar(a,b-14,m.prog/m.need,'#f80')}})}
 for(const it of S.items)L.push({d:it.x+it.y,f:()=>{const[a,b]=iso(it.x,it.y);shadow(it.x,it.y,8);const big=it.type==='laundry',z=big?38:32;X.drawImage(bagSprite(it.type),a-z/2,b-z+3-(it.z||0),z,z)}});
+{const T=TENT;L.push({d:T.x+T.w+T.y+T.h-30,f:()=>{X.globalAlpha=.8;box(T.x,T.y,T.w,T.h,6,'#d9d2b0');X.globalAlpha=.55;box(T.x,T.y,T.w,4,40,'#f2e65a');box(T.x,T.y,4,T.h,40,'#f2e65a');box(T.x+T.w-4,T.y,4,T.h,40,'#e0d040');X.globalAlpha=1;const[a,b]=iso(T.x+T.w/2,T.y+T.h/2,50);X.font='bold 12px sans-serif';X.fillStyle=S.tent?'#fc0':'#ccc';X.fillText(S.tent?(S.inTentDone?'⛺ DONE → step out to doff':'⛺ TENT JOB '+Math.round(S.tent.prog/S.tent.need*100)+'%'):'⛺ Containment tent',a,b)}})}
+if(S.hp){const h=S.hp;L.push({d:h.x+h.y,f:()=>{const[a,b]=iso(h.x,h.y,4);const pu=.5+.5*Math.sin(t*10);X.fillStyle=`rgba(255,60,220,${.25+.25*pu})`;X.beginPath();X.arc(a,b,14+6*pu,0,7);X.fill();X.fillStyle='#fff';X.beginPath();X.arc(a,b,3,0,7);X.fill()}})}
+if(S.buddy){const B=S.buddy;L.push({d:B.x+B.y,f:()=>{person(B.x,B.y,'buddy',t+.3,Math.hypot(B.vx,B.vy)>10,0,B);if(B.carry){const[a,b]=iso(B.x,B.y);X.drawImage(bagSprite(B.carry),a-14,b-118,28,28)}}})}
 for(const c of CANS)L.push({d:c.x+c.y-1,f:()=>{shadow(c.x,c.y,15);const[a,b]=iso(c.x,c.y);X.drawImage(canSprite(),a-20,b-46,40,50)}});
 const cols=['#e67e22','#27ae60','#8e44ad','#2980b9','#c0392b','#16a085'];
 S.workers.forEach((w,i)=>L.push({d:w.x+w.y,f:()=>person(w.x,w.y,'w'+(i%6),t+i*.37,true,0,w)}));
@@ -235,10 +299,13 @@ L.sort((a,b)=>a.d-b.d);for(const o of L)o.f();drawFlyOut();
 for(const q of parts){const[a,b]=iso(q.x,q.y,q.z);X.globalAlpha=Math.min(1,q.t*2);X.fillStyle=q.c;X.fillRect(a-2,b-2,4,4)}X.globalAlpha=1;
 {const[a,b]=iso(DAW.x+DAW.w/2,DAW.y+DAW.h);X.fillStyle='#ffd400';X.font='bold 14px sans-serif';X.fillText('▼ DAW DROP-OFF',a,b+18);const[c,d]=iso(RP.x+RP.w/2,RP.y+RP.h);X.fillStyle='#6cf';X.fillText('▼ RP STATION',c,d+18)}
 for(const f of S.floats){const[a,b]=iso(f.x,f.y);const s=1+Math.max(0,f.t-1)*2;X.globalAlpha=Math.min(1,f.t);X.font=`bold ${15*s|0}px sans-serif`;X.lineWidth=3;X.strokeStyle='#000';X.strokeText(f.txt,a,b-40-(1.2-f.t)*20);X.fillStyle=f.col;X.fillText(f.txt,a,b-40-(1.2-f.t)*20)}X.globalAlpha=1;
+if(MODES[MODE].dark){X.setTransform(DPR,0,0,DPR,0,0);const[sx,sy]=iso(p.x,p.y);const cx=VW/2+(sx-camX)*ZM,cy=VH/2+(sy-camY-30)*ZM,R=230*ZM;const g=X.createRadialGradient(cx,cy,R*.25,cx,cy,R);g.addColorStop(0,'rgba(0,0,20,0)');g.addColorStop(1,'rgba(0,0,20,.86)');X.fillStyle=g;X.fillRect(0,0,VW,VH)}
+if(S.hp){X.setTransform(DPR,0,0,DPR,0,0);const[hx,hy]=iso(S.hp.x,S.hp.y),[px2,py2]=iso(p.x,p.y);const ang=Math.atan2(hy-py2,hx-px2),cx=VW/2,cy=VH/2;X.save();X.translate(cx+Math.cos(ang)*70,cy+Math.sin(ang)*70-20);X.rotate(ang);X.fillStyle='#f6f';X.beginPath();X.moveTo(14,0);X.lineTo(-6,-8);X.lineTo(-6,8);X.fill();X.restore()}
 // HUD in screen space
 const hs=Math.min(1,VW/520);X.setTransform(DPR*hs,0,0,DPR*hs,0,0);const SW=VW/hs;
 X.fillStyle='rgba(0,0,0,.65)';X.fillRect(SW/2-160,8,320,58);const left=Math.max(0,SHIFT-S.t);
-X.fillStyle='rgba(0,0,0,.65)';X.fillRect(SW/2-160,66,320,24);X.font='bold 14px sans-serif';X.fillStyle='#fff';X.fillText('🗑 '+S.items.length+'   💧 '+S.spills.length+'   ⚙ '+(S.motor?1:0)+'   ✨ '+S.cleans+(S.cleanCD>0?'  (break '+Math.ceil(S.cleanCD)+'s)':''),SW/2,83);
+X.fillStyle='rgba(0,0,0,.65)';X.fillRect(SW/2-160,66,320,24);X.font='bold 14px sans-serif';X.fillStyle='#fff';X.fillText('🗑 '+S.items.length+'   💧 '+S.spills.length+'   ⚙ '+(S.motor?1:0)+(S.hp?'   ⚠ 1':'')+(S.tent?'   ⛺ 1':'')+'   ✨ '+S.cleans+'   🚪 PCM '+Math.round(pcmRisk()*100)+'%'+(S.cleanCD>0?'  (break '+Math.ceil(S.cleanCD)+'s)':''),SW/2,83);
+if(S.banner2>0){X.globalAlpha=Math.min(1,S.banner2);X.font='bold 30px sans-serif';X.lineWidth=5;X.strokeStyle='#402';X.strokeText('⚠ HOT PARTICLE detected! Find it!',SW/2,VH/hs*.28);X.fillStyle='#f6f';X.fillText('⚠ HOT PARTICLE detected! Find it!',SW/2,VH/hs*.28);X.globalAlpha=1}
 if(S.banner>0){X.globalAlpha=Math.min(1,S.banner);X.font='bold 44px sans-serif';X.lineWidth=6;X.strokeStyle='#063';X.strokeText('✨ PLANT CLEAN! ✨',SW/2,VH/hs*.35);X.fillStyle='#7f7';X.fillText('✨ PLANT CLEAN! ✨',SW/2,VH/hs*.35);X.font='bold 18px sans-serif';X.fillStyle='#fff';X.fillText('+40 💵 bonus · spawns paused 8s',SW/2,VH/hs*.35+30);X.globalAlpha=1}
 if(S.combo>=2){X.font='bold 20px sans-serif';X.fillStyle='#ff7';X.fillText('COMBO x'+comboMul().toFixed(1)+' ('+S.combo+')',SW/2,112);X.fillStyle='#333';X.fillRect(SW/2-60,118,120,5);X.fillStyle='#ff7';X.fillRect(SW/2-60,118,120*S.comboT/6,5)}
 X.fillStyle=left<30?'#f44':'#fff';X.font='bold 22px monospace';X.fillText('SHIFT '+(left/60|0)+':'+String(left%60|0).padStart(2,'0'),SW/2,34);
@@ -255,10 +322,10 @@ g.fillStyle='#ffd400';g.beginPath();g.arc(20,30,5,0,7);g.fill();g.fillStyle='#4a
 function bar(x,y,v,c){X.fillStyle='#000';X.fillRect(x-20,y,40,6);X.fillStyle=c;X.fillRect(x-20,y,40*Math.min(1,v),6)}
 let last=performance.now();function loop(n){const dt=Math.max(0,Math.min(.05,(n-last)/1000));last=n;if(!S.paused)update(dt);draw();requestAnimationFrame(loop)}
 function start(){reset();OV.style.display='none';S.paused=false;last=performance.now()}
-function title(){reset();OV.innerHTML=`<div class="box"><h1>☢ DECON TECH: OUTAGE SHIFT</h1><p>You're the decon tech on night shift during the outage. Keep the plant clean before the shift ends!</p><ul>
+function title(){reset();applyCos();const r=rankInfo();OV.innerHTML=`<div class="box"><h1>☢ DECON TECH: OUTAGE SHIFT</h1><h2>${r.name}</h2><div style="background:#333;height:10px;border-radius:5px;margin:0 20%"><div style="background:#fc0;height:10px;border-radius:5px;width:${r.pct*100}%"></div></div><small>${r.next?r.need+' career points to '+r.next:'Max rank!'} · ${(META.life||{}).shifts||0} shifts worked</small><br><button onclick="shiftSelect()" style="font-size:22px">CLOCK IN</button><button onclick="shop('title')" style="font-size:20px">🏪 Shop (💵 ${META.pay})</button><h3>📅 Today's challenges</h3><div style="text-align:left;display:inline-block">${chList()}</div><details style="text-align:left;margin-top:10px"><summary><b>How to play</b></summary><ul>
 <li><b>WASD / Arrows</b> to move. On a phone, touch anywhere and drag to use the joystick.</li><li>Grab 🗑 trash and 🧺 laundry bags and haul them to the <b>DAW area</b> for XP. Carrying slows you down; bigger loads earn a bonus.</li>
 <li>Bags pile up around each room's ♻ trash can. Clear EVERYTHING (bags, spills, motor) for a ✨ PLANT CLEAN bonus!</li><li>Finished jobs burst into 🫧 XP bubbles — walk over them to collect. Chain jobs fast for a COMBO multiplier. Bags stack on your back (max 4) and wobble — don't slam into workers! Hands full = no mopping (until Backpack Harness).</li><li>Stand on 💧 spills to mop them. Old spills spread!</li><li>Stand by a ⚙ motor to decon it for big XP.</li><li>👷 Workers wander around and get in your way.</li>
 <li>☢ Watch your <b>ED</b>: 10 mR total or 100 mR/hr trips the alarm. Then you have to go to the <b>RP station</b> to get it reset, and you lose XP.</li>
-<li>Level up and pick upgrades, including the 🛒 cart. Earn 💵 Outage Pay every shift and spend it in the Shop on permanent gear. A low dose at shift end earns an <b>ALARA bonus</b>.</li></ul><button onclick="start()" style="font-size:20px">CLOCK IN</button><button onclick="shop('title')" style="font-size:20px">🏪 Shop (💵 ${META.pay})</button></div>`;OV.style.display='flex'}
+<li>Level up and pick upgrades, including the 🛒 cart. Earn 💵 Outage Pay every shift and spend it in the Shop on permanent gear. A low dose at shift end earns an <b>ALARA bonus</b>.</li></ul></details></div>`;OV.style.display='flex'}
 fit();title();requestAnimationFrame(loop);
 </script></body></html>
